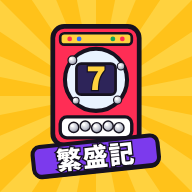
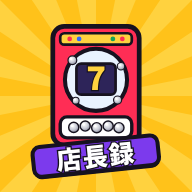
ゲームの名前を「パチンカスの成り上がり店長録」に変える
- タイトル画面のロゴを「パチンカスの／成り上がり／店長録」の3段に
- ページのタイトル・manifest の名前を変更（ホーム画面の表示名は短く「パチンカス」）
- アイコンのリボンを「店長録」に
- README に公開URL（https://tatsuyaishizukaai-hash.github.io/pachinkasu/）を記入
- セーブの保存先の名前は変えていないので、これまでのセーブはそのまま使える

Claude-Session: https://claude.ai/code/session_017gEj822RM1RAWSZPymjBSm

Changed region(s): [[0.2812, 0.7188, 0.7188, 0.9062]]

diff --git a/index.html b/index.html
@@ -8,13 +8,13 @@
 <meta name="mobile-web-app-capable" content="yes">
 <meta name="apple-mobile-web-app-capable" content="yes">
 <meta name="apple-mobile-web-app-status-bar-style" content="black-translucent">
-<meta name="apple-mobile-web-app-title" content="パチンコ繁盛記">
+<meta name="apple-mobile-web-app-title" content="パチンカス">
 <link rel="manifest" href="manifest.webmanifest">
 <link rel="apple-touch-icon" href="icons/apple-touch-icon.png">
 <link rel="icon" type="image/png" sizes="192x192" href="icons/icon-192.png">
 <style>[hidden]{display:none!important}</style>
-<script>window.APP_MODE=true;window.APP_VERSION='202610080944';</script>
-<title>パチンコ繁盛記</title>
+<script>window.APP_MODE=true;window.APP_VERSION='202610080958';</script>
+<title>パチンカスの成り上がり店長録</title>
 <link rel="preconnect" href="https://fonts.googleapis.com">
 <link rel="preconnect" href="https://fonts.gstatic.com" crossorigin>
 <link rel="stylesheet" href="https://fonts.googleapis.com/css2?family=Dela+Gothic+One&family=DotGothic16&family=M+PLUS+Rounded+1c:wght@500;800&display=swap">
@@ -261,7 +261,8 @@ button{font:inherit;color:inherit}
 .L .title-box>*{flex:1}
 .logo{margin:0;font-family:var(--f-display);font-weight:400;line-height:1.02}
 .logo .l1{display:block;font-size:28px;color:#fff;-webkit-text-stroke:2px var(--ink);paint-order:stroke fill;text-shadow:3px 3px 0 var(--ink);letter-spacing:.06em}
-.logo .l2{display:block;font-size:60px;color:var(--red);-webkit-text-stroke:3px var(--ink);paint-order:stroke fill;text-shadow:5px 5px 0 var(--ink);transform:rotate(-4deg)}
+.logo .l2{display:block;font-size:54px;color:var(--red);-webkit-text-stroke:3px var(--ink);paint-order:stroke fill;text-shadow:5px 5px 0 var(--ink);transform:rotate(-4deg)}
+.logo .l4{display:block;margin-top:4px;font-size:44px;color:var(--sun);-webkit-text-stroke:3px var(--ink);paint-order:stroke fill;text-shadow:4px 4px 0 var(--ink);transform:rotate(-4deg);letter-spacing:.12em}
 .logo .l3{display:inline-block;margin-top:10px;font-size:12px;background:var(--ink);color:var(--sun);border-radius:99px;padding:3px 14px;letter-spacing:.2em}
 .balls{display:flex;justify-content:center;gap:8px;margin-top:12px}
 .balls i{width:15px;height:15px;border-radius:50%;border:2.5px solid var(--ink);background:radial-gradient(circle at 35% 30%,#fff,#c9ced9 50%,#7d8394);display:block;animation:bounce 1.1s ease-in-out infinite}
@@ -309,7 +310,7 @@ button{font:inherit;color:inherit}
   <canvas id="fx" hidden></canvas>
   <section id="title" hidden>
     <div class="title-box">
-      <div><h1 class="logo"><span class="l1">パチンコ</span><span class="l2">繁盛記</span><span class="l3">HALL MANAGER</span></h1>
+      <div><h1 class="logo"><span class="l1">パチンカスの</span><span class="l2">成り上がり</span><span class="l4">店長録</span><span class="l3">HALL MANAGER</span></h1>
       <div class="balls" aria-hidden="true"><i></i><i></i><i></i><i></i><i></i></div></div>
       <div class="title-card">
         <label class="lbl" for="tName">お店の名前</label>

diff --git a/src/template.html b/src/template.html
@@ -1,4 +1,4 @@
-<title>パチンコ繁盛記</title>
+<title>パチンカスの成り上がり店長録</title>
 <link rel="preconnect" href="https://fonts.googleapis.com">
 <link rel="preconnect" href="https://fonts.gstatic.com" crossorigin>
 <link rel="stylesheet" href="https://fonts.googleapis.com/css2?family=Dela+Gothic+One&family=DotGothic16&family=M+PLUS+Rounded+1c:wght@500;800&display=swap">
@@ -245,7 +245,8 @@ button{font:inherit;color:inherit}
 .L .title-box>*{flex:1}
 .logo{margin:0;font-family:var(--f-display);font-weight:400;line-height:1.02}
 .logo .l1{display:block;font-size:28px;color:#fff;-webkit-text-stroke:2px var(--ink);paint-order:stroke fill;text-shadow:3px 3px 0 var(--ink);letter-spacing:.06em}
-.logo .l2{display:block;font-size:60px;color:var(--red);-webkit-text-stroke:3px var(--ink);paint-order:stroke fill;text-shadow:5px 5px 0 var(--ink);transform:rotate(-4deg)}
+.logo .l2{display:block;font-size:54px;color:var(--red);-webkit-text-stroke:3px var(--ink);paint-order:stroke fill;text-shadow:5px 5px 0 var(--ink);transform:rotate(-4deg)}
+.logo .l4{display:block;margin-top:4px;font-size:44px;color:var(--sun);-webkit-text-stroke:3px var(--ink);paint-order:stroke fill;text-shadow:4px 4px 0 var(--ink);transform:rotate(-4deg);letter-spacing:.12em}
 .logo .l3{display:inline-block;margin-top:10px;font-size:12px;background:var(--ink);color:var(--sun);border-radius:99px;padding:3px 14px;letter-spacing:.2em}
 .balls{display:flex;justify-content:center;gap:8px;margin-top:12px}
 .balls i{width:15px;height:15px;border-radius:50%;border:2.5px solid var(--ink);background:radial-gradient(circle at 35% 30%,#fff,#c9ced9 50%,#7d8394);display:block;animation:bounce 1.1s ease-in-out infinite}
@@ -292,7 +293,7 @@ button{font:inherit;color:inherit}
   <canvas id="fx" hidden></canvas>
   <section id="title" hidden>
     <div class="title-box">
-      <div><h1 class="logo"><span class="l1">パチンコ</span><span class="l2">繁盛記</span><span class="l3">HALL MANAGER</span></h1>
+      <div><h1 class="logo"><span class="l1">パチンカスの</span><span class="l2">成り上がり</span><span class="l4">店長録</span><span class="l3">HALL MANAGER</span></h1>
       <div class="balls" aria-hidden="true"><i></i><i></i><i></i><i></i><i></i></div></div>
       <div class="title-card">
         <label class="lbl" for="tName">お店の名前</label>

diff --git a/src/build-app.js b/src/build-app.js
@@ -1,5 +1,5 @@
 #!/usr/bin/env node
-/* パチンコ繁盛記のビルド
+/* パチンカスの成り上がり店長録のビルド
    node src/build-app.js
    - ルートの index.html / sw.js … ホーム画面アプリ（PWA）版
    - dist/artifact.html          … Claudeのアーティファクト版 */
@@ -30,7 +30,7 @@ const app=`<!doctype html>
 <meta name="mobile-web-app-capable" content="yes">
 <meta name="apple-mobile-web-app-capable" content="yes">
 <meta name="apple-mobile-web-app-status-bar-style" content="black-translucent">
-<meta name="apple-mobile-web-app-title" content="パチンコ繁盛記">
+<meta name="apple-mobile-web-app-title" content="パチンカス">
 <link rel="manifest" href="manifest.webmanifest">
 <link rel="apple-touch-icon" href="icons/apple-touch-icon.png">
 <link rel="icon" type="image/png" sizes="192x192" href="icons/icon-192.png">

diff --git a/sw.js b/sw.js
@@ -1,7 +1,7 @@
-/* パチンコ繁盛記 Service Worker（node src/build-app.js で sw.js を作り直す） */
-const VERSION='202610080944';
-const CACHE='hanjoki-'+VERSION;
-const FONT_CACHE='hanjoki-fonts';
+/* パチンカスの成り上がり店長録 Service Worker（node src/build-app.js で sw.js を作り直す） */
+const VERSION='202610080958';
+const CACHE='pachinkasu-'+VERSION;
+const FONT_CACHE='pachinkasu-fonts';
 const CORE=['./','./index.html','./manifest.webmanifest','./icons/icon-192.png','./icons/icon-512.png','./icons/maskable-512.png','./icons/apple-touch-icon.png'];
 
 self.addEventListener('install',e=>{

diff --git a/src/sw-template.js b/src/sw-template.js
@@ -1,7 +1,7 @@
-/* パチンコ繁盛記 Service Worker（node src/build-app.js で sw.js を作り直す） */
+/* パチンカスの成り上がり店長録 Service Worker（node src/build-app.js で sw.js を作り直す） */
 const VERSION='__VERSION__';
-const CACHE='hanjoki-'+VERSION;
-const FONT_CACHE='hanjoki-fonts';
+const CACHE='pachinkasu-'+VERSION;
+const FONT_CACHE='pachinkasu-fonts';
 const CORE=['./','./index.html','./manifest.webmanifest','./icons/icon-192.png','./icons/icon-512.png','./icons/maskable-512.png','./icons/apple-touch-icon.png'];
 
 self.addEventListener('install',e=>{

diff --git a/src/make-icons.py b/src/make-icons.py
@@ -24,7 +24,7 @@ def ball(cx, cy, r):
             f'<circle cx="{cx - r*0.32:.1f}" cy="{cy - r*0.34:.1f}" r="{r*0.28:.1f}" fill="#fff"/>')
 
 def art():
-    # パチンコ台（赤い枠・液晶の7・下皿の玉）と「繁盛記」のリボン
+    # パチンコ台（赤い枠・液晶の7・下皿の玉）と「店長録」のリボン
     return f'''
   <g>
     <rect x="128" y="58" width="256" height="352" rx="34" fill="#16121f"/>
@@ -44,7 +44,7 @@ def art():
     <rect x="70" y="398" width="372" height="88" rx="22" fill="#16121f"/>
     <rect x="70" y="390" width="372" height="88" rx="22" fill="#7c3aed" stroke="#16121f" stroke-width="12"/>
     <text x="256" y="463" text-anchor="middle" font-family="Noto Sans CJK JP" font-weight="900" font-size="74"
-          fill="#ffffff" stroke="#16121f" stroke-width="8" paint-order="stroke" letter-spacing="4">繁盛記</text>
+          fill="#ffffff" stroke="#16121f" stroke-width="8" paint-order="stroke" letter-spacing="4">店長録</text>
   </g>'''
 
 def svg(scale):

diff --git a/README.md b/README.md
@@ -1,10 +1,10 @@
-# パチンコ繁盛記
+# パチンカスの成り上がり店長録
 
 釘と設定、イベント日、店づくりで客を呼ぶ、ドット絵のパチンコ屋経営ゲームです。iPhoneのホーム画面に追加すると、全画面のアプリとして遊べます。
 
 ## 遊ぶ
 
-公開URL：（GitHub Pagesで公開したら、ここに書きます）
+公開URL：https://tatsuyaishizukaai-hash.github.io/pachinkasu/
 
 ### iPhoneのホーム画面に追加する
 
